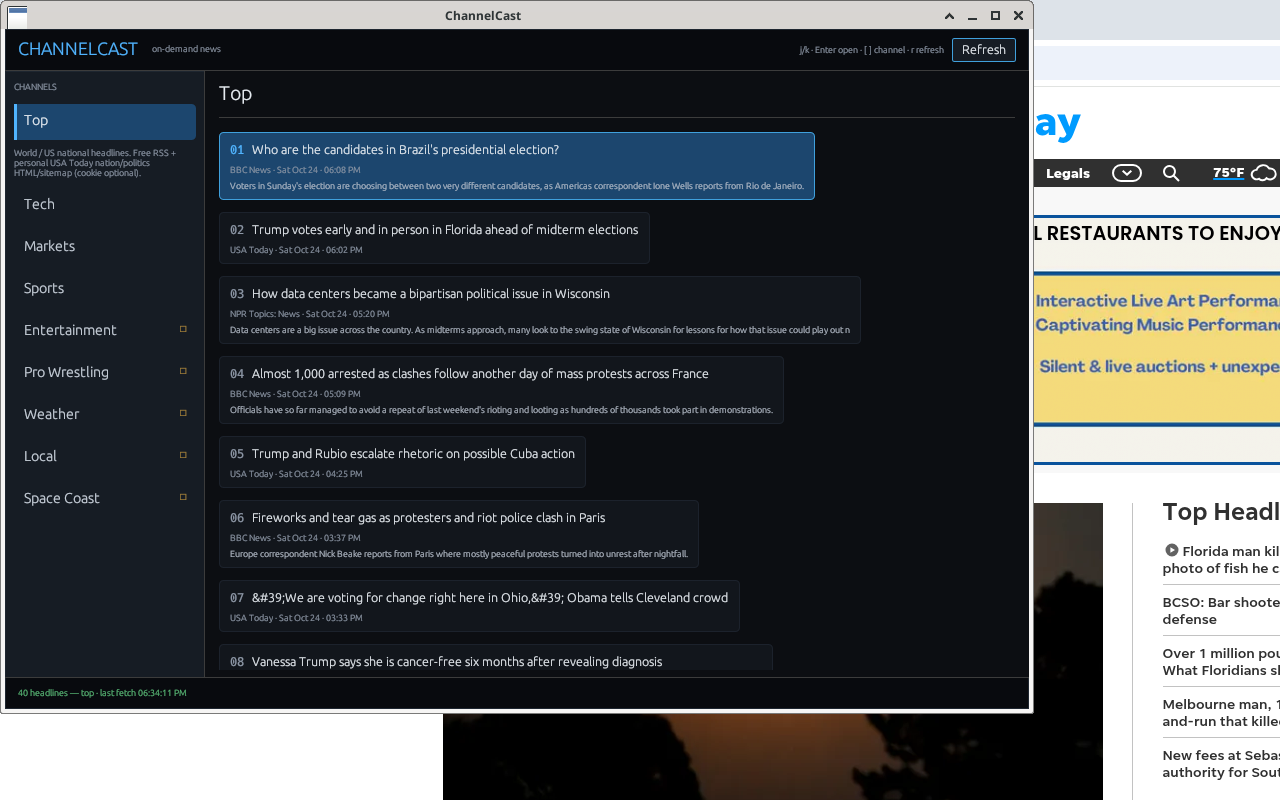
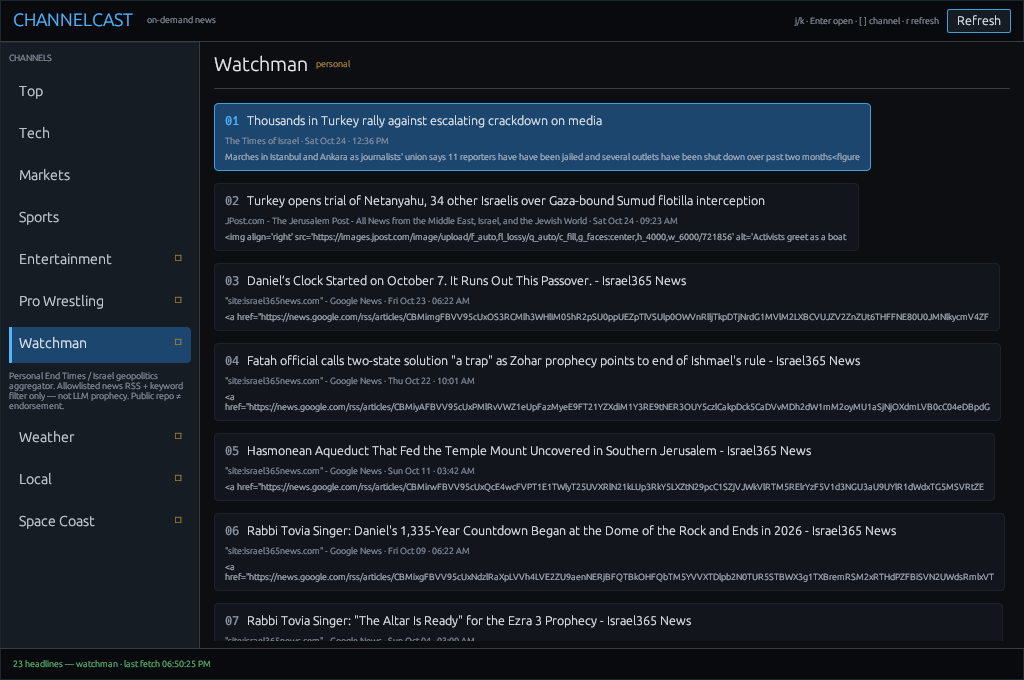
Update desktop preview to Watchman prophecy headlines
Add --channel / --screenshot flags so docs/desktop-preview.png can be
regenerated with a live Watchman fetch (Israel / End Times feed).

diff --git a/crates/channelcast-desktop/src/main.rs b/crates/channelcast-desktop/src/main.rs
@@ -55,12 +55,24 @@ struct App {
     last_fetch_at: Option<DateTime<Utc>>,
     cache_path: PathBuf,
     rx: Option<Receiver<FetchMsg>>,
+    /// When set, capture a PNG after headlines paint, then quit.
+    screenshot_path: Option<PathBuf>,
+    screenshot_requested: bool,
+    settle_frames: u8,
+    quit_after_screenshot: bool,
 }
 
 impl App {
-    fn new(config: ChannelConfig, cache_path: PathBuf) -> Self {
+    fn new(
+        config: ChannelConfig,
+        cache_path: PathBuf,
+        initial_channel: Option<String>,
+        screenshot_path: Option<PathBuf>,
+    ) -> Self {
         let channels: Vec<Channel> = config.listed(false).into_iter().cloned().collect();
-        let selected = channels.first().map(|c| c.id.clone());
+        let selected = initial_channel
+            .filter(|id| channels.iter().any(|c| &c.id == id))
+            .or_else(|| channels.first().map(|c| c.id.clone()));
         let mut app = Self {
             config,
             channels,
@@ -74,11 +86,75 @@ impl App {
             last_fetch_at: None,
             cache_path,
             rx: None,
+            screenshot_path,
+            screenshot_requested: false,
+            settle_frames: 0,
+            quit_after_screenshot: false,
         };
         if let Some(id) = app.selected.clone() {
             app.start_fetch(id);
         }
         app
+    }
+
+    fn maybe_request_screenshot(&mut self, ctx: &egui::Context) {
+        if self.screenshot_path.is_none() || self.screenshot_requested || self.fetching {
+            return;
+        }
+        // Wait until we have headlines (or a settled empty/error state) and a few paint frames.
+        if self.last_fetch_at.is_none() {
+            return;
+        }
+        if self.settle_frames < 4 {
+            self.settle_frames += 1;
+            ctx.request_repaint();
+            return;
+        }
+        self.screenshot_requested = true;
+        ctx.send_viewport_cmd(egui::ViewportCommand::Screenshot(egui::UserData::default()));
+        ctx.request_repaint();
+    }
+
+    fn handle_screenshot_events(&mut self, ctx: &egui::Context) {
+        let Some(path) = self.screenshot_path.clone() else {
+            return;
+        };
+        let image = ctx.input(|i| {
+            i.events.iter().find_map(|e| {
+                if let egui::Event::Screenshot { image, .. } = e {
+                    Some(image.clone())
+                } else {
+                    None
+                }
+            })
+        });
+        let Some(image) = image else {
+            return;
+        };
+        let [w, h] = image.size;
+        let raw = image.as_raw();
+        if let Some(parent) = path.parent() {
+            let _ = std::fs::create_dir_all(parent);
+        }
+        match image::save_buffer(&path, raw, w as u32, h as u32, image::ColorType::Rgba8) {
+            Ok(()) => {
+                eprintln!(
+                    "channelcast-desktop: wrote screenshot {} ({}x{})",
+                    path.display(),
+                    w,
+                    h
+                );
+                self.status = format!("Screenshot saved: {}", path.display());
+                self.status_is_err = false;
+            }
+            Err(e) => {
+                eprintln!("channelcast-desktop: screenshot save failed: {e:#}");
+                self.status = format!("Screenshot failed: {e}");
+                self.status_is_err = true;
+            }
+        }
+        self.quit_after_screenshot = true;
+        ctx.send_viewport_cmd(egui::ViewportCommand::Close);
     }
 
     fn apply_visuals(ctx: &egui::Context) {
@@ -310,6 +386,11 @@ impl eframe::App for App {
         Self::apply_visuals(ctx);
         self.poll_fetch(ctx);
         self.handle_keys(ctx);
+        self.maybe_request_screenshot(ctx);
+        self.handle_screenshot_events(ctx);
+        if self.quit_after_screenshot {
+            return;
+        }
 
         // Top ticker bar
         egui::TopBottomPanel::top("top")
@@ -628,7 +709,40 @@ fn load_config(path: Option<&Path>) -> Result<ChannelConfig> {
     ChannelConfig::defaults().context("loading built-in defaults")
 }
 
+#[derive(Debug, Default)]
+struct CliArgs {
+    channel: Option<String>,
+    screenshot: Option<PathBuf>,
+}
+
+fn parse_args() -> CliArgs {
+    let mut args = CliArgs::default();
+    let mut it = std::env::args().skip(1);
+    while let Some(a) = it.next() {
+        match a.as_str() {
+            "--channel" => {
+                args.channel = it.next();
+            }
+            "--screenshot" => {
+                args.screenshot = it.next().map(PathBuf::from);
+            }
+            "-h" | "--help" => {
+                eprintln!(
+                    "Usage: channelcast-desktop [--channel ID] [--screenshot PATH]\n\n                     --channel ID       Select and fetch this channel on startup\n                     --screenshot PATH  After headlines paint, write PNG and quit"
+                );
+                std::process::exit(0);
+            }
+            other => {
+                eprintln!("channelcast-desktop: unknown argument '{other}' (try --help)");
+                std::process::exit(2);
+            }
+        }
+    }
+    args
+}
+
 fn main() -> eframe::Result<()> {
+    let cli = parse_args();
     let config = match load_config(None) {
         Ok(c) => c,
         Err(e) => {
@@ -636,6 +750,13 @@ fn main() -> eframe::Result<()> {
             std::process::exit(1);
         }
     };
+
+    if let Some(id) = &cli.channel {
+        if config.get(id).is_err() {
+            eprintln!("channelcast-desktop: unknown channel '{id}'");
+            std::process::exit(1);
+        }
+    }
 
     let cache_path = PathBuf::from(".channelcast/cache.db");
     if let Some(parent) = cache_path.parent() {
@@ -650,12 +771,14 @@ fn main() -> eframe::Result<()> {
         ..Default::default()
     };
 
+    let initial = cli.channel.clone();
+    let shot = cli.screenshot.clone();
     eframe::run_native(
         "ChannelCast",
         options,
         Box::new(move |cc| {
             App::apply_visuals(&cc.egui_ctx);
-            Ok(Box::new(App::new(config, cache_path)))
+            Ok(Box::new(App::new(config, cache_path, initial, shot)))
         }),
     )
 }

diff --git a/README.md b/README.md
@@ -116,9 +116,11 @@ PointCast-inspired egui shell: dark channel strip on the left (● marks persona
 ```bash
 # from repo root (needs a display; Linux needs libxcb + libxkbcommon -dev packages)
 cargo run -p channelcast-desktop
+# open a channel and optionally write a docs preview PNG then quit
+cargo run -p channelcast-desktop -- --channel watchman --screenshot docs/desktop-preview.png
 ```
 
-CI installs those Linux GUI build deps so `cargo test --workspace` stays green. Prebuilt desktop binaries ship on [Releases](https://github.com/cruiseliner/channelcast/releases) from **v0.1.1** onward (same platforms as the CLI). Preview: [`docs/desktop-preview.png`](docs/desktop-preview.png) when present.
+CI installs those Linux GUI build deps so `cargo test --workspace` stays green. Prebuilt desktop binaries ship on [Releases](https://github.com/cruiseliner/channelcast/releases) from **v0.1.1** onward (same platforms as the CLI). Preview: [`docs/desktop-preview.png`](docs/desktop-preview.png) (Watchman / prophecy channel).
 
 **v0.1.3:** Polished desktop app — dark PointCast-style channel strip with personal ● marks, source · time on headlines, keyboard nav (j/k / arrows, Enter to open, [ ] to switch channels, r to refresh), and a status line.
 
